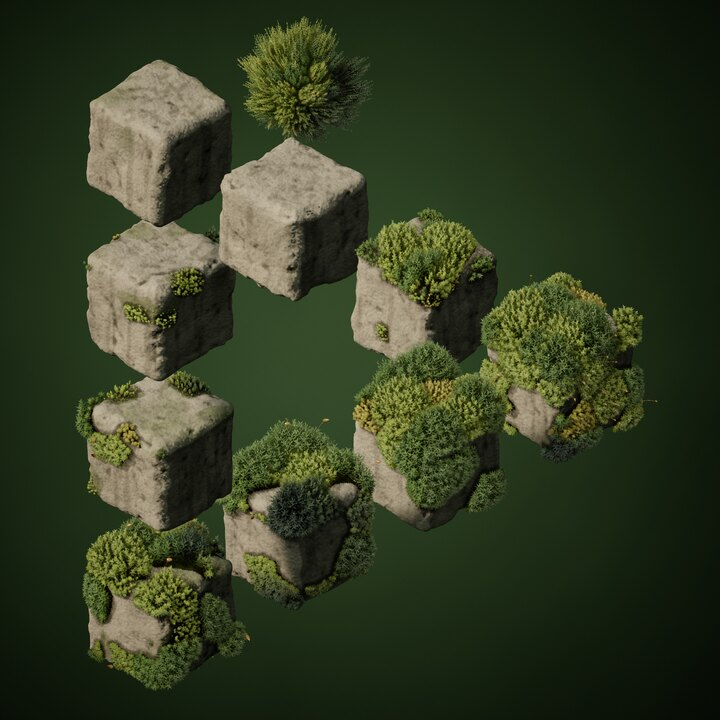
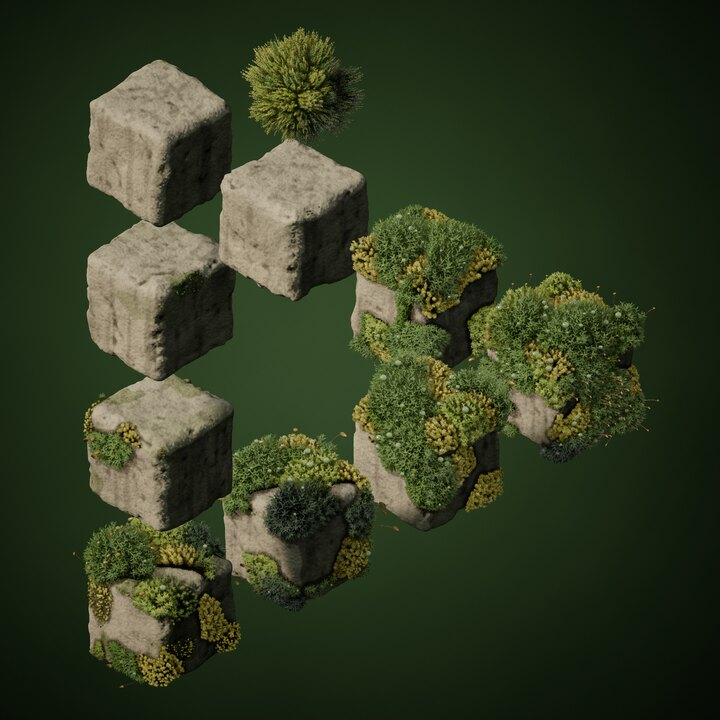
Grow moss from the landing, with panel controls for it and the framing
Moss can now burst out around the ball on impact, at its own growth speed. The
figure is centred by eye rather than by its margins, and a slider moves it.
Stones and strands take the settings tuned on the panel, and tools/film.mjs
records the loop. The page clock no longer falls behind on a busy machine.

diff --git a/05-moss/src/triangle/index.ts b/05-moss/src/triangle/index.ts
@@ -76,22 +76,24 @@ const main = async () => {
     tuft: 1,
     tops: 0.95,
     sides: 0.44,
-    sideHeight: 0.5,
+    sideHeight: 0.5115,
     density: 0.5,
     // how it lives
-    arrive: 1,
-    life: 8.3,
-    rim: 1,
-    sway: 0.5,
+    arrive: 2.015,
+    life: 7.224,
+    rim: 0,
+    sway: 1.5,
+    onLanding: true,
+    growth: 0.3,
     // what it is
-    gold: 0.1,
-    dark: 0.38,
-    fruit: 1,
-    dew: 0.7,
-    splay: 1,
-    wander: 1,
+    gold: 0.42,
+    dark: 0.435,
+    fruit: 5.85,
+    dew: 2.0375,
+    splay: 2.5,
+    wander: 1.455,
     // leaves
-    leaf: 1,
+    leaf: 1.134,
     width: 1,
     open: 1,
     curl: 0,
@@ -107,12 +109,12 @@ const main = async () => {
     across: 0.6,
     // the ball
     mossBall: true,
-    strand: 0.72,
-    strands: 0.85,
-    inertia: 1,
+    strand: 0.572,
+    strands: 1,
+    inertia: 1.07,
     spring: 1.5,
     damping: 0.3,
-    drag: 0.5,
+    drag: 0,
   };
   const remembered = "moss-triangle";
   const recall = () => {
@@ -147,7 +149,7 @@ const main = async () => {
 
   const frameData = new Float32Array(72);
   const frameBuffer = buffer(288, GPUBufferUsage.UNIFORM | GPUBufferUsage.COPY_DST);
-  const sceneData = new Float32Array(49 * 4);
+  const sceneData = new Float32Array(50 * 4);
   const sceneBuffer = buffer(sceneData.byteLength, GPUBufferUsage.UNIFORM | GPUBufferUsage.COPY_DST);
   const seeds = Array.from({ length: STONES }, (_, i) => 3.1 + i * 7.3);
 
@@ -538,9 +540,11 @@ const main = async () => {
     const m = settings;
     sceneData.set(
       // mossData, in the order scene.moss reads it
-      [m.height, m.tuft, m.tops, m.sides, m.sideHeight, m.splay, m.wander, m.density, m.arrive, m.life, m.rim, m.fruit, m.gold, m.dark, m.sway, 0],
+      [m.height, m.tuft, m.tops, m.sides, m.sideHeight, m.splay, m.wander, m.density, m.arrive, m.life, m.rim, m.fruit, m.gold, m.dark, m.sway, m.onLanding ? 1 : 0],
       41 * 4,
     );
+    // moss that bursts out of a landing has to be there at once, or it stops looking like the landing did it
+    sceneData.set([(m.onLanding ? 0.2 : 0.42) / m.growth, 0, 0, 0], 49 * 4);
     device.queue.writeBuffer(sceneBuffer, 0, sceneData);
   };
 
@@ -675,7 +679,9 @@ const main = async () => {
   let last = performance.now();
   const loop = (now: number) => {
     const elapsed = now - last;
-    const dt = Math.min(0.05, elapsed / 1000);
+    // everything is worked out from the time alone, so a slow frame can jump ahead: holding it back would put
+    // the piece in slow motion on a busy machine, and out of step with the film of it
+    const dt = Math.min(0.25, elapsed / 1000);
     last = now;
     if (running) {
       // a slow machine gives up pixels rather than smoothness. Long gaps are a hidden tab, not a slow one
@@ -716,7 +722,9 @@ const main = async () => {
   slider(growth, "sideHeight", 0.1, 1.2, "height on sides");
 
   const lifetime = gui.addFolder("life");
-  slider(lifetime, "arrive", 0.4, 3, "arrives, slow to fast");
+  lifetime.add(settings, "onLanding").name("starts on landing").listen().onChange(changed);
+  slider(lifetime, "growth", 0.3, 3, "grows, slow to fast");
+  slider(lifetime, "arrive", 0.4, 3, "spreads over a stone");
   slider(lifetime, "life", 3, 8.6, "lasts, in hops");
   slider(lifetime, "rim", 0, 3, "rim dies early");
   slider(lifetime, "sway", 0, 1.5, "sway");
